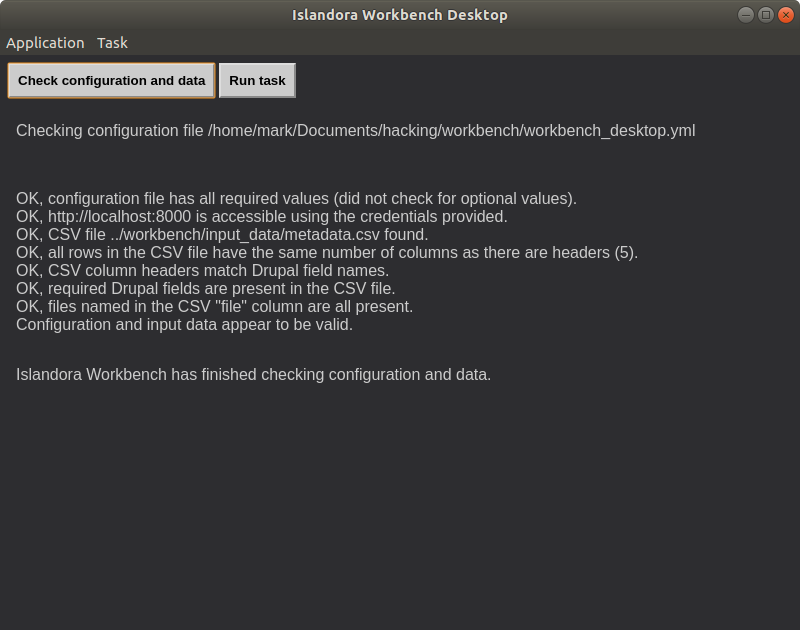
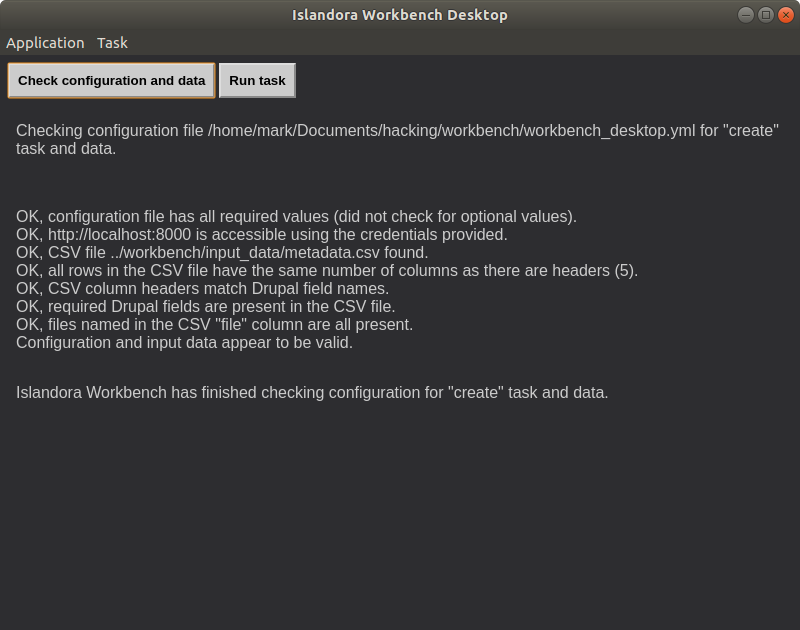
Work on #1.

Changed region(s): [[0.0312, 0.3016, 0.8125, 0.6333], [0.0312, 0.2111, 0.1562, 0.2413], [0.875, 0.181, 0.9688, 0.2111]]

diff --git a/main.js b/main.js
@@ -3,6 +3,9 @@ const {app, BrowserWindow, Menu} = require('electron')
 const electron = require('electron')
 const path = require('path')
 
+const yaml = require('js-yaml');
+const fs = require('fs');
+
 const { dialog } = require('electron')
 
 const Store = require('electron-store');
@@ -63,6 +66,8 @@ function createWindow () {
   ipc.on('asynchronous-message', function (event, arg) {
     if (typeof store.get('workbench.current-config-file') == "undefined") {
       event.sender.send('workbench-config-file', 'No configuration file selected.')
+    } else {
+      var config = yaml.safeLoad(fs.readFileSync(store.get('workbench.current-config-file'), 'utf8'));
     }
 
     var workbenchArgs = ['--config', store.get('workbench.current-config-file')]
@@ -79,9 +84,9 @@ function createWindow () {
     }
 
     if (arg == 'check') {
-      event.sender.send('workbench-config-file', 'Checking configuration file ' + store.get('workbench.current-config-file')) + ' and data'
+      event.sender.send('workbench-config-file', 'Checking configuration file ' + store.get('workbench.current-config-file') + ' for "' + config.task + '" task and data.')
     } else {
-      event.sender.send('workbench-config-file', 'Running task using configuration file ' + store.get('workbench.current-config-file'))
+      event.sender.send('workbench-config-file', 'Running task using configuration file ' + store.get('workbench.current-config-file') + ' for "' + config.task + '" task.')
     }
 
     let shell = new PythonShell(store.get('workbench.path-to-workbench'), options);
@@ -91,9 +96,9 @@ function createWindow () {
 
     shell.on('close', function (message) {
       if (arg == 'check') {
-        event.sender.send('workbench-exit', 'Islandora Workbench has finished checking configuration and data.')
+        event.sender.send('workbench-exit', 'Islandora Workbench has finished checking configuration  for "' + config.task + '" task and data.')
       } else {
-        event.sender.send('workbench-exit', 'Islandora Workbench has finished.')
+        event.sender.send('workbench-exit', 'Islandora Workbench has finished "' + config.task + '" task.')
       }
     });
   })

diff --git a/README.md b/README.md
@@ -1,6 +1,6 @@
 # Islandora Workbench Desktop
 
-A proof of concept illustrating how an Electron application can be run on top of the [Islandora Workbench](https://github.com/mjordan/islandora_workbench) command-line tool. 
+Desktop application that provides a graphical user interface for the [Islandora Workbench](https://github.com/mjordan/islandora_workbench) command-line tool. 
 
 ## Requirements
 
